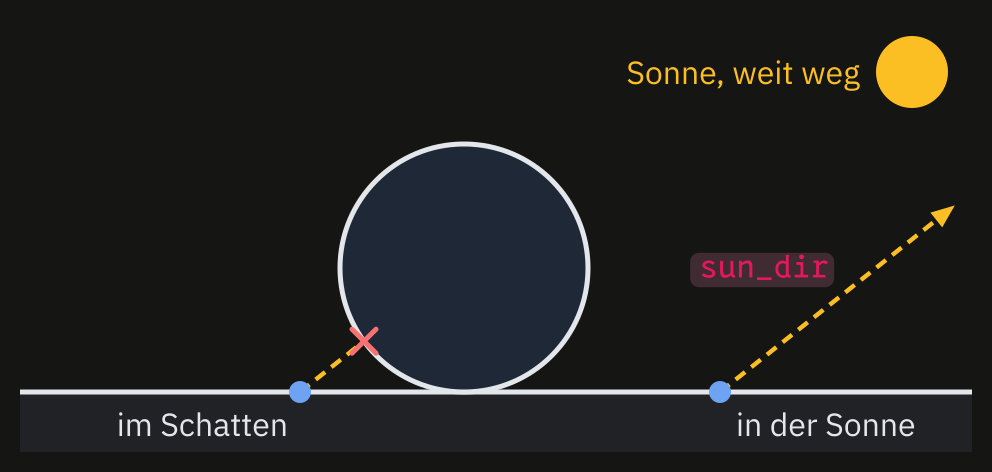
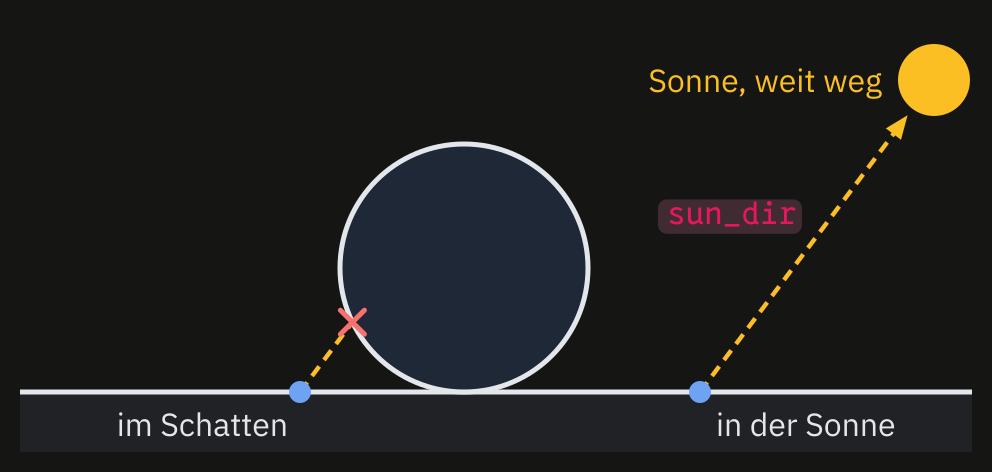
Raytracing, Schattenstrahl: the sun lies in the direction sun_dir, the arrow ends at it (the left ray parallel, the sun far away)

diff --git a/src/content/raytracing/bilder/diagramme.py b/src/content/raytracing/bilder/diagramme.py
@@ -353,7 +353,7 @@ def schattenstrahl():
     s.line((10, fy), (w - 10, fy), INK, 2.5)
     c, r = (232, fy - 62), 62
     s.circle(c, r, PALE, INK, 2.5)
-    sun = unit((0.78, -0.62))
+    sun = unit((0.6, -0.8))
     # in the shadow: the ray meets the ball
     p1 = (150, fy)
     t1 = ray_circle(p1, sun, c, r)
@@ -363,15 +363,17 @@ def schattenstrahl():
     s.dot(p1, 5.5, BLUE)
     s.text((p1[0] - 6, fy + 22), 'im Schatten', INK, 'end')
     # in the sun: free all the way
-    p2 = (360, fy)
-    q2 = add(p2, mul(sun, 150))
-    s.arrow(p2, q2, AMBER, 2.2, dash='6 4')
+    # in the sun: free all the way, the arrow ends at the sun, which lies
+    # in that direction (far away: the left ray is parallel to it)
+    p2 = (350, fy)
+    sun_r = 18
+    sun_c = add(p2, mul(sun, (fy - 40) / -sun[1]))
+    s.arrow(p2, sun_c, AMBER, 2.2, dash='6 4', gap=sun_r + 4)
     s.dot(p2, 5.5, BLUE)
     s.text((p2[0] + 8, fy + 22), 'in der Sonne', INK, 'start')
-    s.code(add(lerp(p2, q2, 0.55), (-12, -6)), 'sun_dir', 'end')
-    # the sun, far away in that direction
-    s.circle((w - 40, 36), 18, AMBER, None)
-    s.text((w - 66, 42), 'Sonne, weit weg', AMBER, 'end')
+    s.code(add(lerp(p2, sun_c, 0.5), (-12, -6)), 'sun_dir', 'end')
+    s.circle(sun_c, sun_r, AMBER, None)
+    s.text((sun_c[0] - sun_r - 8, sun_c[1] + 6), 'Sonne, weit weg', AMBER, 'end')
     return s
 
 
